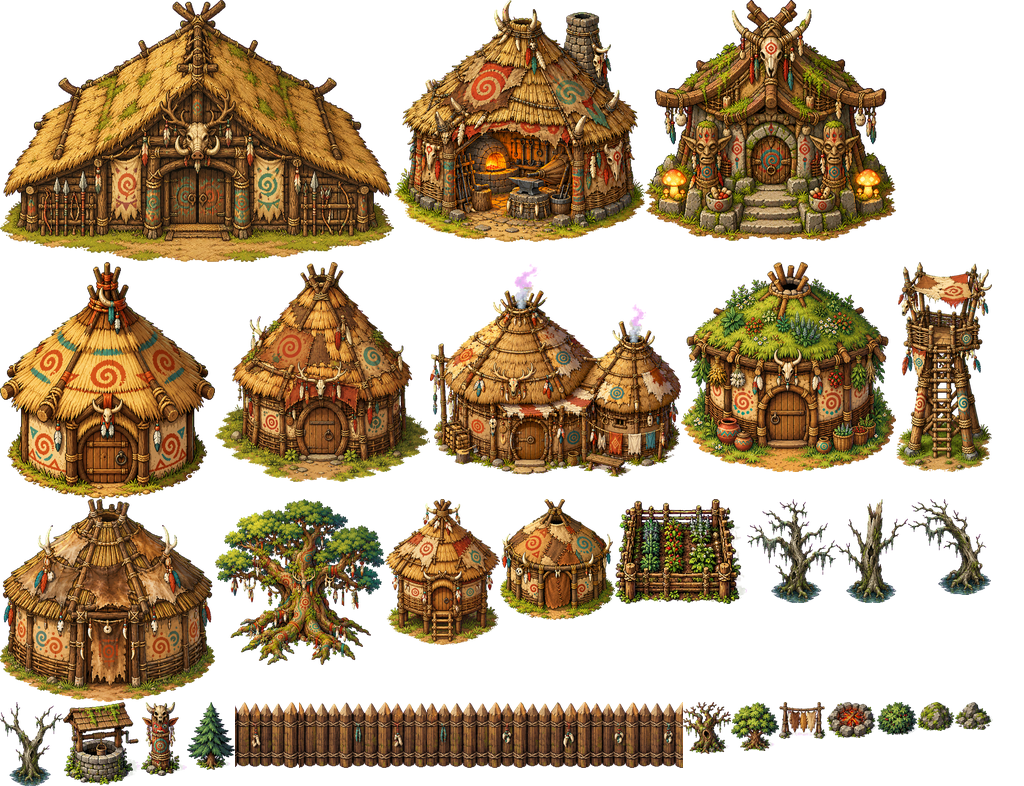
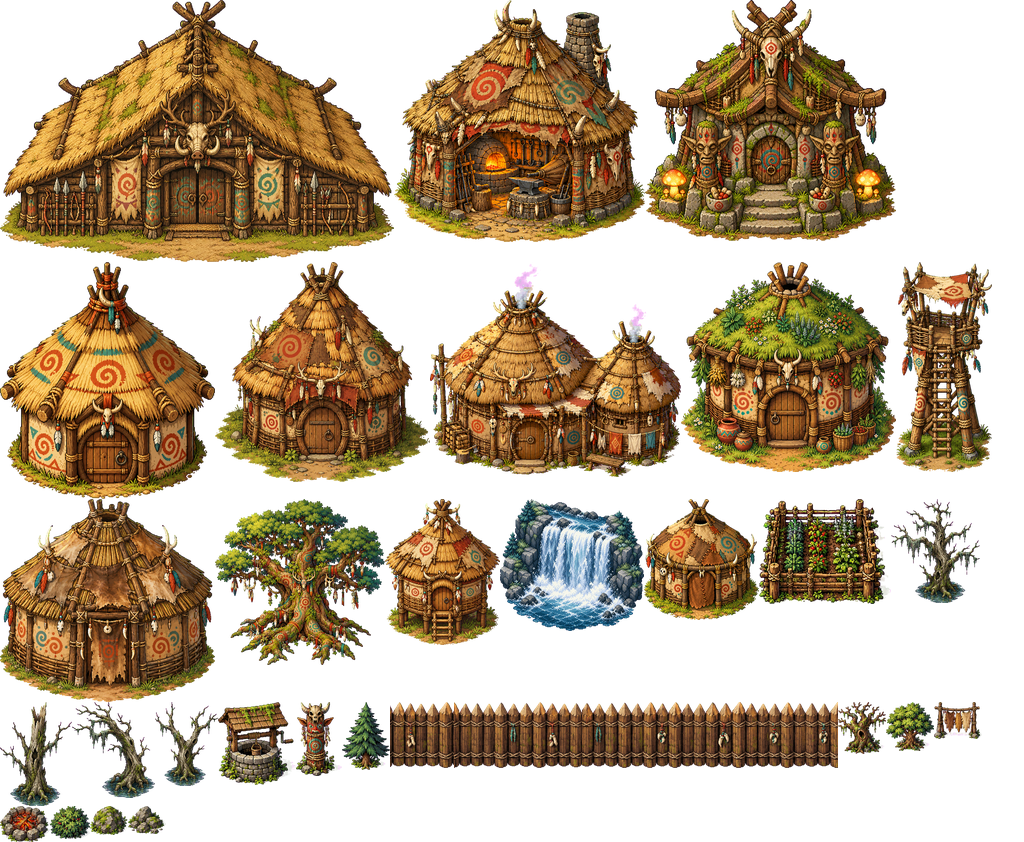
feat(map): bake the Silverpine tileset from the Codex art
The pine forest and rock terrace textures and the waterfall sprite are
cut from the Codex art (pines b, ledge a, waterfall a) and baked into the
tileset and objects sheets. Each waterfall is drawn at one and a half
times its patch width so the spray spills over the cliff edge and into
the river.

Claude-Session: https://claude.ai/code/session_01Cdk2iJGQbV62Qbe1wj8GQY

diff --git a/src/lib/game/content/maps/grid/objects.ts b/src/lib/game/content/maps/grid/objects.ts
@@ -42,6 +42,7 @@ export const GRID_OBJECT_SIZES: Readonly<Record<string, readonly [number, number
 	'dead-tree-b': [72, 104],
 	'dead-tree-c': [83, 96],
 	'dead-tree-d': [63, 84],
+	waterfall: [144, 132],
 	...Object.fromEntries(
 		Array.from({ length: 14 }, (_, index) => [`palisade-${index}`, [32, 66] as const])
 	)
@@ -107,12 +108,7 @@ export function buildGridObjects(
 	}
 	for (const box of components(terrain, 'V')) {
 		// The falls pour over the cliff band and splash into the river below it.
-		objects.push(
-			standing('waterfall', box, 12, {
-				width: box.width * GRID_TILE_SIZE + 16,
-				height: box.height * GRID_TILE_SIZE + 28
-			})
-		);
+		objects.push(standing('waterfall', box, 12, { width: box.width * GRID_TILE_SIZE * 1.5 }));
 	}
 	for (const box of components(terrain, '%')) {
 		objects.push(
